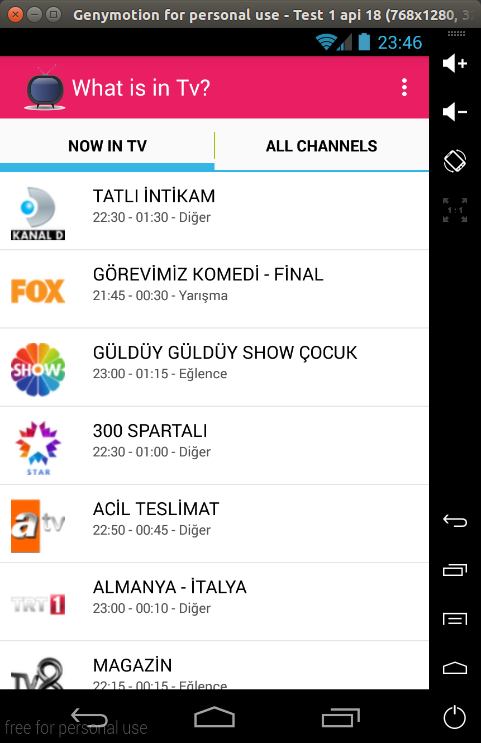
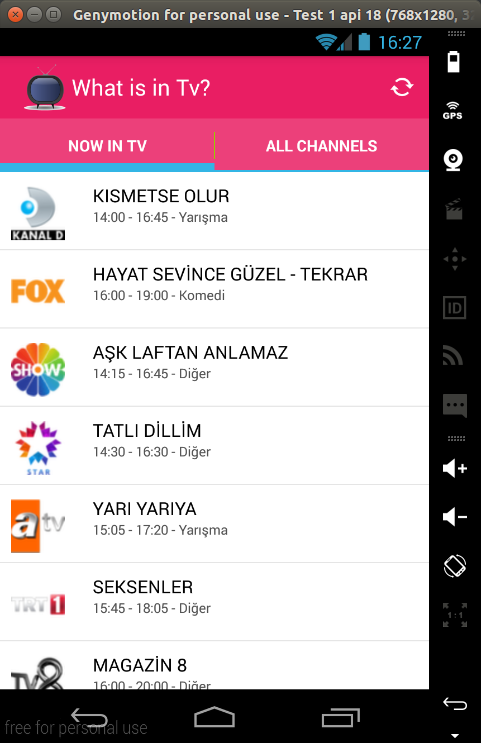
refresh added but still has problem

diff --git a/app/src/main/java/com/ozcaan11/l50/tvdenevar/Activities/BroadcastingActivity.java b/app/src/main/java/com/ozcaan11/l50/tvdenevar/Activities/BroadcastingActivity.java
@@ -3,11 +3,10 @@ package com.ozcaan11.l50.tvdenevar.Activities;
 import android.app.ProgressDialog;
 import android.os.AsyncTask;
 import android.os.Bundle;
-import android.support.design.widget.FloatingActionButton;
-import android.support.design.widget.Snackbar;
 import android.support.v7.app.AppCompatActivity;
 import android.support.v7.widget.Toolbar;
-import android.view.View;
+import android.view.Menu;
+import android.view.MenuItem;
 import android.widget.ImageView;
 import android.widget.ListView;
 import android.widget.TextView;
@@ -38,6 +37,7 @@ public class BroadcastingActivity extends AppCompatActivity {
     Broadcast broadcast;
     String icon_e;
     String title_e;
+    String iUrl;
 
     @Override
     protected void onCreate(Bundle savedInstanceState) {
@@ -49,15 +49,42 @@ public class BroadcastingActivity extends AppCompatActivity {
         listView = (ListView) findViewById(R.id.listView_bChannelBroadcast);
         title = (TextView) findViewById(R.id.textView_bChannelName);
         logo = (ImageView) findViewById(R.id.imageView_bChannelIcon);
+
         getSupportActionBar().setDisplayHomeAsUpEnabled(true);
         getSupportActionBar().setDisplayUseLogoEnabled(true);
 
-        String url = getIntent().getStringExtra("ch_url");
+        iUrl = getIntent().getStringExtra("ch_url");
         try {
-            new BringBroadCast().execute(url);
+            new BringBroadCast().execute(iUrl);
         } catch (Exception e) {
             Toast.makeText(BroadcastingActivity.this, e.getMessage(), Toast.LENGTH_SHORT).show();
         }
+    }
+
+    @Override
+    public boolean onCreateOptionsMenu(Menu menu) {
+        // Inflate the menu; this adds items to the action bar if it is present.
+        getMenuInflater().inflate(R.menu.menu_main, menu);
+        return true;
+    }
+
+    @Override
+    public boolean onOptionsItemSelected(MenuItem item) {
+        // Handle action bar item clicks here. The action bar will
+        // automatically handle clicks on the Home/Up button, so long
+        // as you specify a parent activity in AndroidManifest.xml.
+        int id = item.getItemId();
+
+        //noinspection SimplifiableIfStatement
+        if (id == R.id.action_refresh) {
+            try {
+                new BringBroadCast().execute(iUrl);
+            } catch (Exception e) {
+                e.printStackTrace();
+            }
+        }
+
+        return super.onOptionsItemSelected(item);
     }
 
     private class BringBroadCast extends AsyncTask<String, Void, Void> {
@@ -108,7 +135,7 @@ public class BroadcastingActivity extends AppCompatActivity {
             BroadcastAdapter adapter = new BroadcastAdapter(getApplicationContext(), broadcastArrayList);
             listView.setAdapter(adapter);
 
-            Picasso.with(getApplicationContext()).load(URL_HOME+icon_e).into(logo);
+            Picasso.with(getApplicationContext()).load(URL_HOME + icon_e).into(logo);
             title.setText(title_e);
 
             dialog.dismiss();

diff --git a/app/src/main/java/com/ozcaan11/l50/tvdenevar/Fragments/AllChannelFragment.java b/app/src/main/java/com/ozcaan11/l50/tvdenevar/Fragments/AllChannelFragment.java
@@ -12,8 +12,8 @@ import android.view.ViewGroup;
 import android.widget.AdapterView;
 import android.widget.ListView;
 
-import com.ozcaan11.l50.tvdenevar.Adapters.AllChannelAdapter;
 import com.ozcaan11.l50.tvdenevar.Activities.BroadcastingActivity;
+import com.ozcaan11.l50.tvdenevar.Adapters.AllChannelAdapter;
 import com.ozcaan11.l50.tvdenevar.Classes.Channel;
 import com.ozcaan11.l50.tvdenevar.R;
 
@@ -53,8 +53,11 @@ public class AllChannelFragment extends Fragment {
 
         listView = (ListView) view.findViewById(R.id.listView_all_channels);
 
-        new BringAllChannel().execute();
-
+        try {
+            new BringAllChannel().execute();
+        } catch (Exception e) {
+            e.printStackTrace();
+        }
         return view;
     }
 
@@ -65,8 +68,8 @@ public class AllChannelFragment extends Fragment {
             super.onPreExecute();
 
             dialog = new ProgressDialog(getContext());
-            dialog.setTitle("Loading");
-            dialog.setMessage("Please wait ..");
+            dialog.setTitle("Please wait");
+            dialog.setMessage("Loading ..");
             dialog.setCancelable(false);
             dialog.setIndeterminate(false);
             dialog.show();
@@ -84,11 +87,9 @@ public class AllChannelFragment extends Fragment {
                     channel = new Channel();
                     channel.setName(e.text());
                     channel.setChannelUrl(e.attr("href"));
-                    channel.setIconUrl(URL_HOME+e.select("img").attr("src"));
+                    channel.setIconUrl(URL_HOME + e.select("img").attr("src"));
                     channelArrayList.add(channel);
                 }
-
-
             } catch (Exception e) {
                 e.printStackTrace();
             }
@@ -105,10 +106,9 @@ public class AllChannelFragment extends Fragment {
             listView.setOnItemClickListener(new AdapterView.OnItemClickListener() {
                 @Override
                 public void onItemClick(AdapterView<?> parent, View view, int position, long id) {
-                        //Toast.makeText(getContext(),URL_HOME+ channelArrayList.get(position).getChannelUrl(), Toast.LENGTH_SHORT).show();
 
                     Intent intent = new Intent(getContext(), BroadcastingActivity.class);
-                    intent.putExtra("ch_url",channelArrayList.get(position).getChannelUrl());
+                    intent.putExtra("ch_url", channelArrayList.get(position).getChannelUrl());
                     startActivity(intent);
                 }
             });

diff --git a/app/src/main/java/com/ozcaan11/l50/tvdenevar/Fragments/NowInTvFragment.java b/app/src/main/java/com/ozcaan11/l50/tvdenevar/Fragments/NowInTvFragment.java
@@ -47,12 +47,16 @@ public class NowInTvFragment extends Fragment {
 
         listView = (ListView) view.findViewById(R.id.listView_now_in_tv);
 
-        new BringWhatsInTvNow().execute();
+        try {
+            new BringWhatsInTvNow().execute();
+        } catch (Exception e) {
+            e.printStackTrace();
+        }
 
         return view;
     }
 
-    private class BringWhatsInTvNow extends AsyncTask<Void,Void,Void>{
+    private class BringWhatsInTvNow extends AsyncTask<Void, Void, Void> {
 
 
         @Override
@@ -60,8 +64,8 @@ public class NowInTvFragment extends Fragment {
             super.onPreExecute();
 
             dialog = new ProgressDialog(getContext());
-            dialog.setTitle("Loading");
-            dialog.setMessage("Please wait ..");
+            dialog.setTitle("Please wait");
+            dialog.setMessage("Loading ..");
             dialog.setCancelable(false);
             dialog.setIndeterminate(false);
             dialog.show();
@@ -78,7 +82,7 @@ public class NowInTvFragment extends Fragment {
                     channel = new Channel();
                     channel.setProgram(e.select("a").text());
                     channel.setChannelUrl(e.select("a").attr("href"));
-                    channel.setIconUrl(URL_HOME+e.select("a").select("img").attr("src"));
+                    channel.setIconUrl(URL_HOME + e.select("a").select("img").attr("src"));
                     channel.setProgramTime(e.select("span").text());
 
                     channelArrayList.add(channel);
@@ -97,8 +101,7 @@ public class NowInTvFragment extends Fragment {
 
             channelArrayList.remove(0);
 
-
-            NowInTvAdapter adapter = new NowInTvAdapter(getContext(),channelArrayList);
+            NowInTvAdapter adapter = new NowInTvAdapter(getContext(), channelArrayList);
             listView.setAdapter(adapter);
 
             dialog.dismiss();

diff --git a/app/src/main/java/com/ozcaan11/l50/tvdenevar/Activities/MainActivity.java b/app/src/main/java/com/ozcaan11/l50/tvdenevar/Activities/MainActivity.java
@@ -6,6 +6,7 @@ import android.support.v7.app.AppCompatActivity;
 import android.support.v7.widget.Toolbar;
 import android.view.Menu;
 import android.view.MenuItem;
+import android.widget.Toast;
 
 import com.astuetz.PagerSlidingTabStrip;
 import com.ozcaan11.l50.tvdenevar.Adapters.PagerAdapter;
@@ -25,10 +26,7 @@ public class MainActivity extends AppCompatActivity {
 
         viewPager = (ViewPager) findViewById(R.id.viewpager);
         viewPager.setAdapter(new PagerAdapter(getSupportFragmentManager()));
-
         tabsStrip = (PagerSlidingTabStrip) findViewById(R.id.tabs);
-
-        assert tabsStrip != null;
         tabsStrip.setViewPager(viewPager);
 
         getSupportActionBar().setDisplayShowTitleEnabled(true);
@@ -51,8 +49,8 @@ public class MainActivity extends AppCompatActivity {
         int id = item.getItemId();
 
         //noinspection SimplifiableIfStatement
-        if (id == R.id.action_settings) {
-            return true;
+        if (id == R.id.action_refresh) {
+            Toast.makeText(MainActivity.this, "Still working on it!", Toast.LENGTH_SHORT).show();
         }
 
         return super.onOptionsItemSelected(item);

diff --git a/app/src/main/java/com/ozcaan11/l50/tvdenevar/Adapters/PagerAdapter.java b/app/src/main/java/com/ozcaan11/l50/tvdenevar/Adapters/PagerAdapter.java
@@ -14,7 +14,7 @@ import com.ozcaan11.l50.tvdenevar.Fragments.NowInTvFragment;
 
 public class PagerAdapter extends FragmentPagerAdapter {
     final int PAGE_COUNT = 2;
-    private String tabTitles[] = new String[] { "Now In Tv", "All Channels" };
+    private String tabTitles[] = new String[]{"Now In Tv", "All Channels"};
 
     public PagerAdapter(FragmentManager fm) {
         super(fm);
@@ -27,7 +27,7 @@ public class PagerAdapter extends FragmentPagerAdapter {
 
     @Override
     public Fragment getItem(int position) {
-        switch (position){
+        switch (position) {
             case 0:
                 return new NowInTvFragment();
             case 1:

diff --git a/app/src/main/java/com/ozcaan11/l50/tvdenevar/Adapters/BroadcastAdapter.java b/app/src/main/java/com/ozcaan11/l50/tvdenevar/Adapters/BroadcastAdapter.java
@@ -19,7 +19,7 @@ import java.util.ArrayList;
 
 public class BroadcastAdapter extends ArrayAdapter<Broadcast> {
     public BroadcastAdapter(Context context, ArrayList<Broadcast> arrayList) {
-        super(context, 0,arrayList);
+        super(context, 0, arrayList);
     }
 
     @Override
